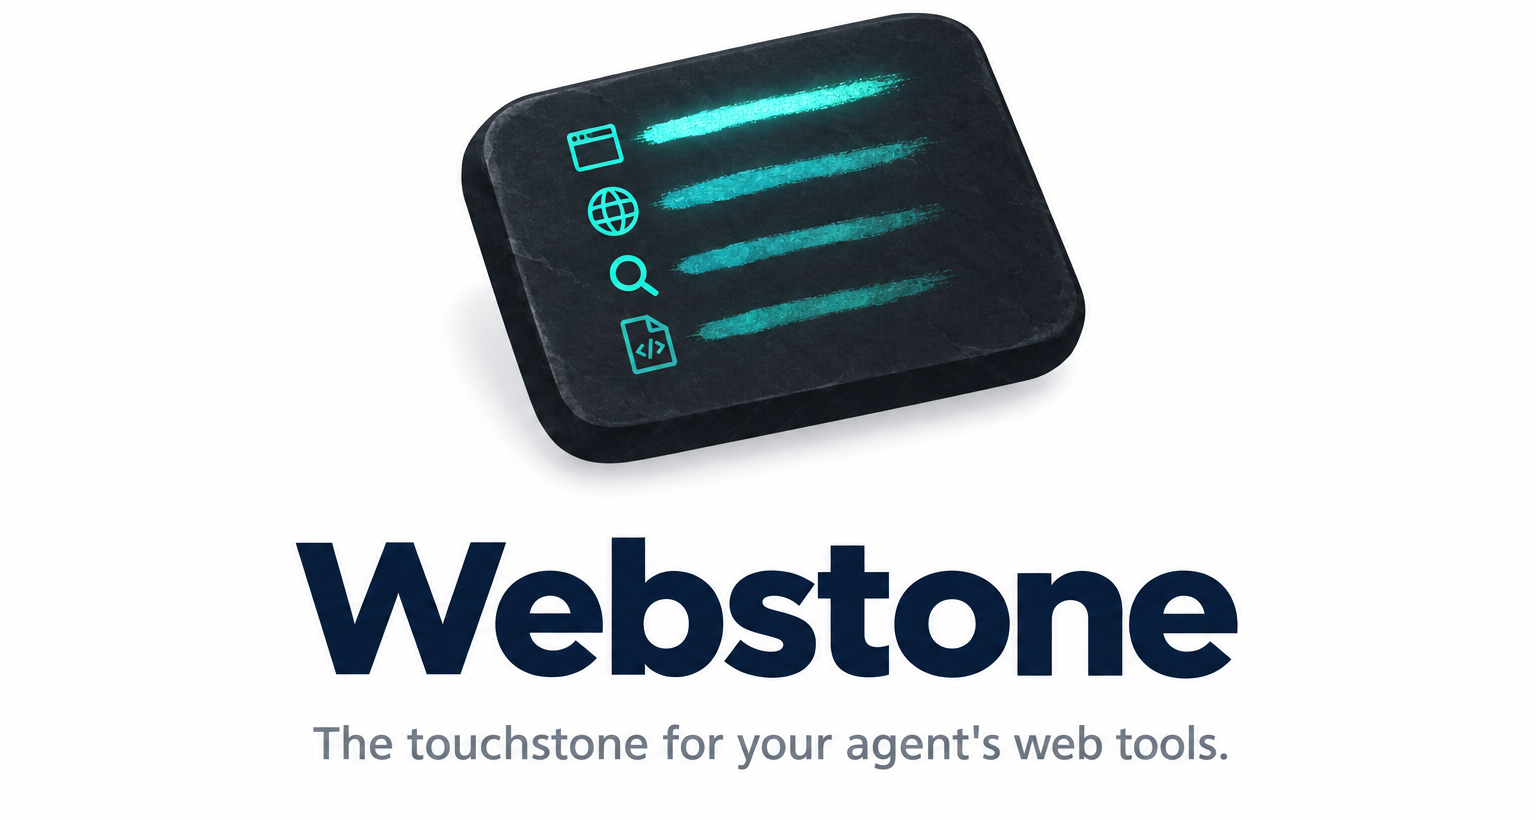
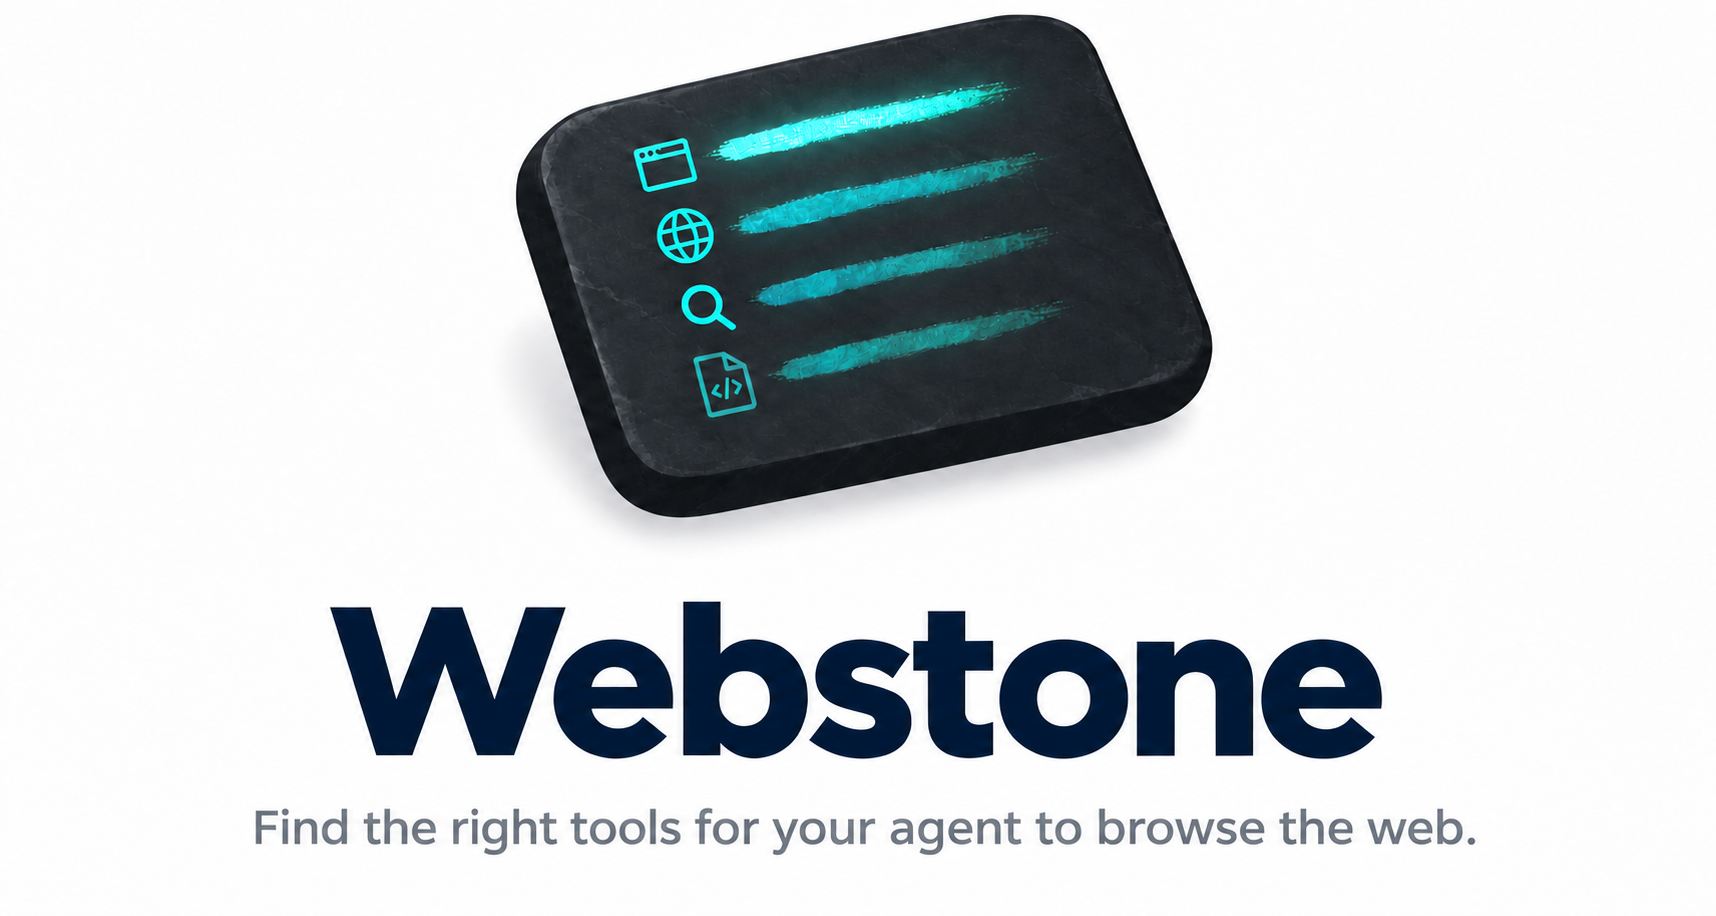
fix(site): unify reported highlights and compact navigation

diff --git a/web/components/dashboard.tsx b/web/components/dashboard.tsx
@@ -1,7 +1,7 @@
 "use client";
 
 import { useEffect, useState } from "react";
-import { ArrowDown, ArrowDownToLine, ArrowRight, ArrowUpRight, CircleDashed, Layers3, Menu } from "lucide-react";
+import { ArrowDown, ArrowDownToLine, ArrowRight, ArrowUpRight, BookOpenText, ChevronUp, CircleDashed, Layers3, Menu } from "lucide-react";
 import { canonicalVersion, benchmarkEntries, bestValue, bestValueLabel, formatMetric, formatPricing, isBestValue, latestEntry, reportEntries, resolveBenchmark, selectEntry, sortProviders, type Catalog, type Entry, type Metric, type Provider, type ReportFile, type Snapshot } from "../lib/results";
 import { providerColors } from "../lib/presentation";
 import ExampleDialog from "./example-dialog";
@@ -18,7 +18,7 @@ import { evaluationScopeCopy } from "../lib/result-copy";
 import { decisionMetrics, hasPricingInformation } from "../lib/comparisons";
 
 import Home, { EvaluationReports, TRACK_ICONS } from "./home";
-import { benchmarkHref, DATASETS_URL, EVALUATION_URL, SUBMISSION_URL, WEBSTONE_REPOSITORY_URL, navigationGroups } from "../lib/overview";
+import { benchmarkHref, DATASETS_URL, EVALUATION_URL, SUBMISSION_URL, navigationGroups } from "../lib/overview";
 type Selection = { benchmark: string; version: string; metric: string };
 
 export default function Dashboard() {
@@ -187,7 +187,7 @@ export default function Dashboard() {
   function metricCell(provider: Provider, item: Metric) {
     const value = provider.scores[item.id];
     const isBest = isBestValue(value, metricBest.get(item.id) ?? null);
-    const winnerLabel = t(bestValueLabel(benchmark!, item.direction));
+    const winnerLabel = t(bestValueLabel(benchmark!, item.direction, item));
     return <td key={item.id} data-column={`metric:${item.id}`} className={`numeric ${item.id === metric?.id ? "primary-number" : ""} ${isBest ? "best-value" : ""}`}
       title={[isBest ? winnerLabel : "", value == null ? t("Not disclosed in the source") : "", provider.counts?.[item.id] ? `${provider.counts[item.id].count} / ${provider.counts[item.id].total}` : ""].filter(Boolean).join(" · ") || undefined}
     >{item.unit === "usd" && catalog?.pricingSources?.[provider.id]?.length ? <div className="metric-heading"><span>{formatMetric(value, item.unit, item.decimals, item.signed)}</span><InfoTooltip label={`${provider.name} · ${t("Billing basis")}`} description={t(provider.billingDescription ?? "The table retains the evaluation report’s quoted price. Official rates may change.")} sources={catalog.pricingSources[provider.id]} sourcesLabel={t("Official pricing")} detailsLabel={t("details")} /></div> : formatMetric(value, item.unit, item.decimals, item.signed, provider.counts?.[item.id])}{isBest && <span className="sr-only"> {winnerLabel}</span>}</td>;
@@ -219,7 +219,7 @@ export default function Dashboard() {
             <h2>{t(versions.length > 0 ? "No results for this version" : "No results for this benchmark")}</h2>
             {versions.length > 0 && <button className="text-button" onClick={() => chooseVersion(versions.at(-1)!)}>{t("View latest version")}<ArrowRight size={14} /></button>}
           </div> : <>
-            <section id="results" className="leaderboard" aria-label={`${t(benchmark.name)} ${t("Leaderboard")}`}>
+            <section id="results" className="leaderboard table-panel" style={{ "--data-columns": categories.length + visibleMetrics.length + Number(showPassed) + Number(showPricing) } as React.CSSProperties} aria-label={`${t(benchmark.name)} ${t("Leaderboard")}`}>
               <h2 className="sr-only">{t("Leaderboard")}</h2>
               <div className="table-toolbar"><span className="table-summary">{benchmark.providerCount} {t("methods")}{benchmark.taskCount === null ? "" : <> · {benchmark.taskCount.toLocaleString()} {t("cases")}</>}
                 {evaluationScope && <InfoTooltip label={t("Evaluation scope")} description={evaluationScope} detailsLabel={t("details")} />}
@@ -248,7 +248,7 @@ export default function Dashboard() {
                     {showPassed && <th className="count-cell" data-column="passed" scope="col"><div className="metric-heading"><span>{t("Passed / Total")}</span><InfoTooltip label={t("Passed / Total")} description={`${t("Passed / Total")}: ${benchmark.taskCount}. ${t("Not disclosed in the source")}: —.`} detailsLabel={t("details")} /></div></th>}
                   </tr></thead>
                   <tbody>{providers.map((provider, i) => <tr key={provider.id} data-provider={provider.id}>
-                    <td className="rank-cell">{benchmark.rankable === false || benchmark.comparisonMode === "reported" || provider.scores[metric.id] == null ? "—" : i + 1}</td>
+                    <td className="rank-cell">{benchmark.rankable === false || benchmark.comparisonMode === "reported" || metric.comparisonMode === "reported" || provider.scores[metric.id] == null ? "—" : i + 1}</td>
                     <td className="method-cell"><div className="provider-cell"><a className="provider-name provider-link" href={catalog?.providerUrls[provider.id]} target="_blank" rel="noopener noreferrer" aria-label={`${provider.name} ${t("project")} (${t("opens in a new tab")})`}><span className={`provider-mark ${provider.id}`} style={{ "--provider-color": providerColors[provider.id] ?? "#64748b" } as React.CSSProperties} aria-hidden="true">{provider.name[0]}</span><MethodLabel name={provider.name} t={t} /><ArrowUpRight className="provider-external" size={12} aria-hidden="true" /></a><button className="method-open" aria-label={`${provider.name} · ${t("Method details")}`} aria-haspopup="dialog" onClick={() => setSelectedProvider(provider)}>···</button></div></td>
                     {leadingMetrics.map(item => metricCell(provider, item))}
                     {showPricing && <td data-column="pricing" className="numeric pricing-cell"><div className="metric-heading">{provider.pricing && hasPricingInformation(provider) ? <><span className="pricing-value">{t(formatPricing(provider.pricing))}</span><InfoTooltip label={`${provider.name} · ${t("Billing basis")}`} description={`${t(provider.pricing.description)} ${t("The table retains the evaluation report’s quoted price. Official rates may change.")}`} sources={catalog?.pricingSources?.[provider.id]} sourcesLabel={t("Official pricing")} detailsLabel={t("details")} /></> : "—"}</div></td>}
@@ -302,7 +302,7 @@ export default function Dashboard() {
       </div>)}</section>)}</nav>
       <div className="sidebar-footer">
         <div className="language-control" role="group" aria-label="Language / 语言"><button lang="en" aria-pressed={language === "en"} onClick={() => chooseLanguage("en")}>EN</button><button lang="zh" aria-pressed={language === "zh"} onClick={() => chooseLanguage("zh")}>中文</button></div>
-        <details className="sidebar-resources"><summary>{t("Resources")}</summary><div className="sidebar-guides">
+        <details className="sidebar-resources"><summary><BookOpenText size={14} aria-hidden="true" /><span>{t("Resources")}</span><ChevronUp size={12} aria-hidden="true" /></summary><div className="sidebar-guides">
         <a href={EVALUATION_URL} target="_blank" rel="noreferrer" aria-label={`${t("Run an evaluation")} · lexmount/webstone`}>
           <Github /><span>{t("Run an evaluation")}<small>webstone</small></span><ArrowUpRight size={13} aria-hidden="true" />
         </a>
@@ -313,7 +313,6 @@ export default function Dashboard() {
           <img src="/huggingface.svg" width="16" height="16" alt="" aria-hidden="true" /><span>{t("Datasets")}</span><ArrowUpRight size={13} aria-hidden="true" />
         </a>
       </div></details>
-        <a className="nav-star" href={WEBSTONE_REPOSITORY_URL} target="_blank" rel="noreferrer" aria-label={t("Star Webstone on GitHub")}><Github /><span>{t("Star on GitHub")}</span></a>
       </div>
     </aside>
 

diff --git a/web/app/globals.css b/web/app/globals.css
@@ -387,13 +387,20 @@ a.result-published { display: inline-flex; align-items: center; gap: 4px; }
 .radar-shape:hover, .radar-shape:focus-visible { fill-opacity: .18; stroke-width: 3; }
 
 /* Keep numeric columns readable without stretching them across wide screens. */
-.table-scroll {
+.table-panel {
   --rank-width: 36px;
   --provider-width: clamp(220px, 22vw, 300px);
   --data-column-width: 118px;
-  --table-width: calc(var(--rank-width) + var(--provider-width) + var(--data-columns) * var(--data-column-width));
   width: 100%;
   max-width: min(100%, calc(var(--rank-width) + var(--provider-width) + var(--data-columns) * 160px));
+}
+.overview-leaderboard { --rank-width: 0px; }
+.table-scroll {
+  --rank-width: inherit;
+  --provider-width: inherit;
+  --data-column-width: inherit;
+  --table-width: calc(var(--rank-width) + var(--provider-width) + var(--data-columns) * var(--data-column-width));
+  max-width: 100%;
 }
 .wide-table {
   --rank-width: inherit;
@@ -588,8 +595,6 @@ a.result-published { display: inline-flex; align-items: center; gap: 4px; }
 .nav-upcoming > svg { flex-shrink: 0; }
 .nav-upcoming .track-name { flex: 1; }
 .upcoming-badge { flex-shrink: 0; display: inline-flex; padding: 3px 5px; border: 1px solid #d9e2da; border-radius: 4px; color: #52655a; background: #eef3ee; font-size: 9px; font-weight: 500; line-height: 1.3; }
-.nav-star { display: inline-flex; align-items: center; gap: 5px; min-height: 31px; padding: 5px 7px; border: 1px solid #c6d7cb; border-radius: 5px; color: #315d43; font-size: 11px; background: #fff; }
-.nav-star:hover { background: #edf4ef; }
 .overview-actions .overview-star { display: inline-flex; align-items: center; gap: 7px; padding: 11px 13px; border: 1px solid #87ab98; border-radius: 7px; color: #edf8ef; font-size: 13px; }
 .track-group-label { display: block; margin-bottom: 11px; color: #64746a; font-size: 10px; letter-spacing: .04em; }
 
@@ -661,13 +666,16 @@ a.result-published { display: inline-flex; align-items: center; gap: 4px; }
 /* Reserve sidebar space for navigation; auxiliary links open above the footer. */
 .sidebar-footer { position: relative; padding-inline: 0; gap: 6px; flex-wrap: wrap; }
 .sidebar-resources { font-size: 11px; color: #315d43; }
-.sidebar-resources > summary { cursor: pointer; padding: 7px 5px; }
+.sidebar-resources > summary { display: flex; align-items: center; gap: 5px; cursor: pointer; padding: 7px 5px; list-style: none; }
+.sidebar-resources > summary::-webkit-details-marker { display: none; }
+.sidebar-resources > summary svg { flex-shrink: 0; }
+.sidebar-resources[open] > summary svg:last-child { transform: rotate(180deg); }
 .sidebar-resources .sidebar-guides { position: absolute; bottom: calc(100% + 8px); left: 0; right: 0; padding: 8px; border: 1px solid #c2d5c9; border-radius: 8px; background: #f7faf6; box-shadow: 0 4px 18px #1c352520; }
 .sidebar .grouped-navigation { scrollbar-gutter: stable; }
 .track-card { display: flex; flex-direction: column; }
 .track-card .track-group-label { min-height: 14px; }
 .track-card .track-description { min-height: 40px; }
-.track-card .track-benchmark-list { display: flex; flex-wrap: wrap; align-content: flex-start; gap: 4px; height: 84px; overflow-y: auto; scrollbar-gutter: stable; margin-bottom: 0; padding: 0; list-style: none; }
+.track-card .track-benchmark-list { display: flex; flex-wrap: wrap; align-content: flex-start; gap: 4px; height: 94px; overflow-y: auto; scrollbar-gutter: stable; margin-bottom: 0; padding: 10px 0 0; list-style: none; }
 .track-card .track-benchmark-list li a { display: inline-flex; align-items: center; gap: 5px; min-height: 34px; padding: 5px 8px; }
 .track-benchmark-list li { max-width: 100%; }
 .track-benchmark-list li svg { flex-shrink: 0; }
@@ -722,5 +730,3 @@ a.result-published { display: inline-flex; align-items: center; gap: 4px; }
 .sidebar-footer { display: grid; grid-template-columns: auto auto; gap: 4px; }
 .sidebar-footer .language-control button { min-width: 0; padding: 5px 6px; font-size: 11px; }
 .sidebar-resources > summary { padding-inline: 3px; font-size: 10px; }
-.sidebar-footer .nav-star { grid-column: 1 / -1; justify-content: center; gap: 4px; padding-inline: 5px; }
-.sidebar-footer .nav-star > svg { display: block; width: 14px; height: 14px; flex-shrink: 0; }

diff --git a/web/lib/results.ts b/web/lib/results.ts
@@ -1,7 +1,7 @@
 import { canonicalVersion, compareVersions, releaseDate } from "./result-version.mjs";
 export { canonicalVersion, compareVersions } from "./result-version.mjs";
 
-export type Metric = { id: string; label: string; unit: string; direction: "asc" | "desc"; decimals?: number; description?: string; signed?: boolean; highlightBest?: boolean; chartRange?: [number, number] };
+export type Metric = { id: string; label: string; unit: string; direction: "asc" | "desc"; decimals?: number; description?: string; signed?: boolean; highlightBest?: boolean; comparisonMode?: "reported"; chartRange?: [number, number] };
 export type CategoryDefinition = { id: string; name: string; criterion: string };
 export type Category = CategoryDefinition & { total: number };
 export type Provider = {
@@ -121,8 +121,8 @@ export function bestValue(values: (number | null | undefined)[], direction: "asc
   return best;
 }
 
-export function bestValueLabel(definition: {comparisonMode?: "reported"}, direction: "asc" | "desc") {
-  if (definition.comparisonMode === "reported") return direction === "asc" ? "Lowest reported value" : "Highest reported value";
+export function bestValueLabel(definition: {comparisonMode?: "reported"}, direction: "asc" | "desc", metric?: Metric) {
+  if (definition.comparisonMode === "reported" || metric?.comparisonMode === "reported") return direction === "asc" ? "Lowest reported value" : "Highest reported value";
   return "Best in this column";
 }
 

diff --git a/web/components/track-results.tsx b/web/components/track-results.tsx
@@ -40,7 +40,7 @@ export default function TrackResults({catalog,snapshots,trackId,layer,onLayer,t,
     <nav className="overview-benchmarks" aria-label={t('Included benchmarks')}>
       <span>{t('Included benchmarks')}</span>{columns.map(col=><a key={col.info.id} href={benchmarkHref(col.info.id)}>{col.info.name.replace(/^LexBench /,'')}</a>)}
     </nav>
-    <section id="results" className="leaderboard" aria-label={`${comparison.track.name} ${t('Overview')}`}>
+    <section id="results" className="leaderboard table-panel overview-leaderboard" style={{'--data-columns':columns.length} as React.CSSProperties} aria-label={`${comparison.track.name} ${t('Overview')}`}>
       <div className="table-toolbar"><span className="table-summary">{ordered.length} {t('methods')} · {columns.length} {t('benchmarks')}</span>
         <div className="column-views" role="group" aria-label={t('Result coverage')}>
           <button aria-pressed={!completeOnly} onClick={()=>setCompleteOnly(false)}>{t('All methods')}</button>

diff --git a/web/lib/radar.ts b/web/lib/radar.ts
@@ -46,7 +46,7 @@ function resourceAxis(axis: Axis, providers: Provider[]): Axis | null {
 
 export function radarAxes(benchmark: Benchmark): Axis[] {
   const keyIds = new Set(benchmark.keyMetricIds ?? [benchmark.primaryMetric]);
-  const comparable = (metric: Metric) => benchmark.rankable !== false && metric.highlightBest !== false;
+  const comparable = (metric: Metric) => benchmark.rankable !== false && metric.highlightBest !== false && metric.comparisonMode !== "reported" && benchmark.comparisonMode !== "reported";
   const categories: Axis[] = benchmark.categories.filter(category => category.total > 0 &&
     benchmark.providers.some(provider => typeof provider.categoryPassed?.[category.id] === "number")).map(category => ({
     defaultSelected: false,

diff --git a/docs/spec.md b/docs/spec.md
@@ -41,13 +41,14 @@ a percentage or milliseconds as seconds, but must preserve the underlying value
 and precision. Counts, scores, memory and signed deltas keep their proper units.
 Downloads retain original values, numerators and denominators.
 
-Rank and highlight only comparable values. `direction` identifies the best value;
+Rank only comparable values. `direction` identifies the best value;
 the active sort direction does not change it. Ties share highlights. Constant or
 insufficiently disclosed columns have no winner. Respect `highlightBest: false`
-and diagnostic `rankable: false` in tables and charts: neither inconsistent test
-conditions nor different billing bases become comparable because values are numeric.
-Source-reported comparisons use numeric extrema labeled as highest/lowest reported
-values and omit ranks; these are not controlled evaluation rankings.
+and diagnostic `rankable: false` in tables and charts. Source-reported comparisons
+use numeric extrema labeled as highest/lowest reported values and omit ranks;
+these are not controlled evaluation rankings. The same rule applies to individual
+reported timing and point-price columns through metric `comparisonMode: "reported"`.
+They receive table highlights but remain outside comparable efficiency chart axes.
 Output length is descriptive, not a quality score. Never turn a price range or
 unknown model charge into an exact total.
 
@@ -88,8 +89,9 @@ radar admits only complete profiles. Search overviews retain the L1/L2/L3 distin
 Method details show the method ID, product ID, tested configurations and current
 published results. A shared URL never establishes method equivalence.
 
-Keep auxiliary sidebar resources behind a compact footer menu so they do not
-squeeze out primary navigation. Track cards share a compact two-row viewport for wrapping benchmark chips,
+Keep auxiliary sidebar resources behind a compact footer menu beside the language
+switch, opening above it. The footer has no separate GitHub Star link; evaluation
+and submission links already lead to the repositories. Track cards share a compact two-row viewport for wrapping benchmark chips,
 with scrolling and a mobile expand action.
 Report pages contain two rows at the actual grid column count; resize and filtering
 clamp the selected page without omitting reports. Chart method selectors
@@ -124,7 +126,8 @@ Keep **Find the right tools for your agent to browse the web.** as the homepage'
 only descriptive slogan. Place **The touchstone** beside the Webstone name as a
 short brand label. Keep the hero compact with content-driven height, moderate
 padding and no second sentence repeating the benefit. The site and evaluation repo
-share the official Webstone logo asset. Their READMEs explain their respective
+share the official Webstone logo asset. The image contains the Find sentence only;
+README prose can retain The touchstone as a short brand phrase. Their READMEs explain their respective
 roles; the site's README must not read like the evaluation tool's installation page.
 Use the stone symbol for the favicon, and the Hugging Face identity for datasets.
 

diff --git a/AGENTS.md b/AGENTS.md
@@ -82,7 +82,7 @@ Serve a build with `python3 -m http.server 5173 --directory web/out`; never `nex
 - Each definition declares `keyMetricIds`, primary metric first. Key metrics shows the benchmark’s quality measures and at most one representative timing, plus reported cost/resource measures where useful; comparability rules still apply. More metrics adds the remaining disclosed numeric columns, including P50/P95, output size, sample counts and baseline deltas. Never infer importance from units. Omit wholly undisclosed non-ranking columns. Category breakdown shows category counts by default and can collapse them without discarding data. All visible data columns are equal width: the tables use `table-layout: fixed` with a minimum width, so the table scrolls horizontally only when the container is narrower than that minimum. Do not reintroduce auto layout.
 - Row heights are fixed: header and rows 46px on desktop; rows 44px below 760px. Numeric cells remain single-line. Method names and configurations wrap when needed so the full name stays visible.
 - Benchmark tables keep rank and method sticky while scrolling sideways; Overview tables keep only the method sticky.
-- Output size, timings collected under incomparable conditions and quotes with incomparable billing bases use catalog `highlightBest: false`: allow numeric sorting without declaring a winner.
+- Output size uses `highlightBest: false`: allow numeric sorting without declaring a winner. Timings and point quotes from separate source evaluations use metric `comparisonMode: "reported"`: highlight the directional numeric extremum with a highest/lowest reported-value label, and omit numbered ranks when sorting that metric. They remain excluded from comparable efficiency chart axes. Ranges and unknown model charges remain unranked.
 - Highlight the best value in each comparable column independently, using the metric's `direction`. Category pass counts and `Passed / Total` use the highest value. Ties are all highlighted; a column with fewer than two disclosed values or identical values has no winner. `null` and `—` are excluded; real `0` and negative signed deltas participate. Use deep-green bold text on a very light green background and include a screen-reader `Best in this column` label. Do not highlight an entire row.
 - Highlight the whole header of the currently sorted column with a light green background, darker bold text, the direction arrow and `aria-sort`. Changing sort direction must not mark the worst value as best.
 - English is the first-visit default. Support a complete explicit English/Chinese switch, persist the preference locally and update the document language. The catalog owns translations of reusable definitions; reports own translations of new version-specific text. Historical edits live in `web/lib/result-copy.ts`. Official project, model and Dataset names, navigation group names and Track names retain their English spelling in both languages. Translate descriptions and actions.

diff --git a/README.md b/README.md
@@ -4,7 +4,7 @@
 
 [![Leaderboard](https://img.shields.io/badge/Leaderboard-webstone.lexmount.io-527e68)](https://webstone.lexmount.io) [![Datasets](https://img.shields.io/badge/%F0%9F%A4%97-Datasets-ffd21e)](https://huggingface.co/Lexmount)
 
-The website for [Webstone](https://github.com/lexmount/webstone), the touchstone for your agent’s web browsing. Use the [leaderboard](https://webstone.lexmount.io) to compare methods and read published evaluation reports. It covers sixteen benchmark views across five Tracks and links to the independently hosted BrowserArena.
+The companion website for [Webstone](https://github.com/lexmount/webstone), **the touchstone**. Use the [leaderboard](https://webstone.lexmount.io) to compare web tools, browsers and browser agents and read published evaluation reports. It covers sixteen benchmark views across five Tracks and links to the independently hosted BrowserArena.
 
 Run evaluations with [Webstone](https://github.com/lexmount/webstone); submit measured results and public evidence to this repository.
 

diff --git a/docs/references/review-guidelines.md b/docs/references/review-guidelines.md
@@ -39,6 +39,12 @@ repeats implementation constants does not prove the behavior. Documentation-only
 changes need accurate commands, valid local links and a check against their owning
 rules; they do not require a new test that searches for prose keywords.
 
+For published comparisons, derive expected directional extrema independently of
+the catalog's highlight switches. Separately verify whether a value is a comparable
+best or a reported extremum, and keep purely descriptive output length unhighlighted.
+Check toolbar/table edges, primary-column visibility, card separator spacing and
+the upward resource menu by rendered geometry at desktop and phone widths.
+
 Use representative data for edge cases: tied winners, true zero, negative deltas,
 partially and wholly missing metrics, differing denominators, ranges and
 diagnostic editions. Preserve valid existing regression assertions. A shared
